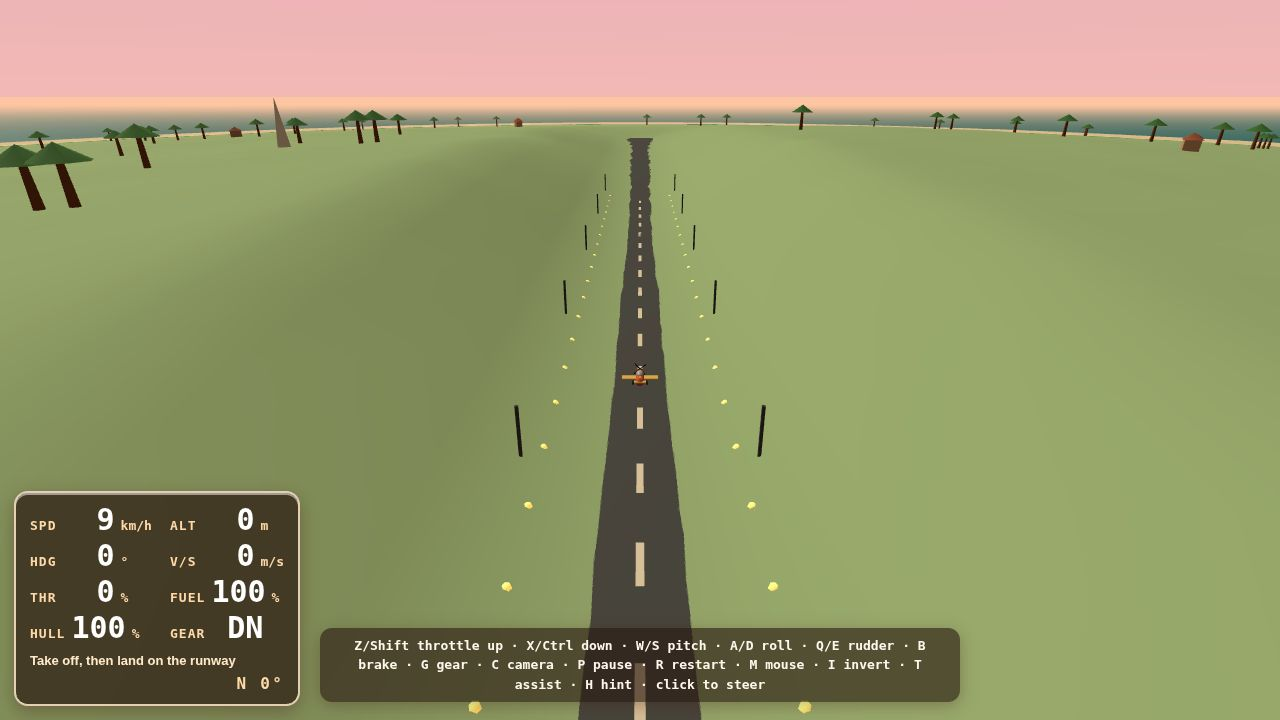
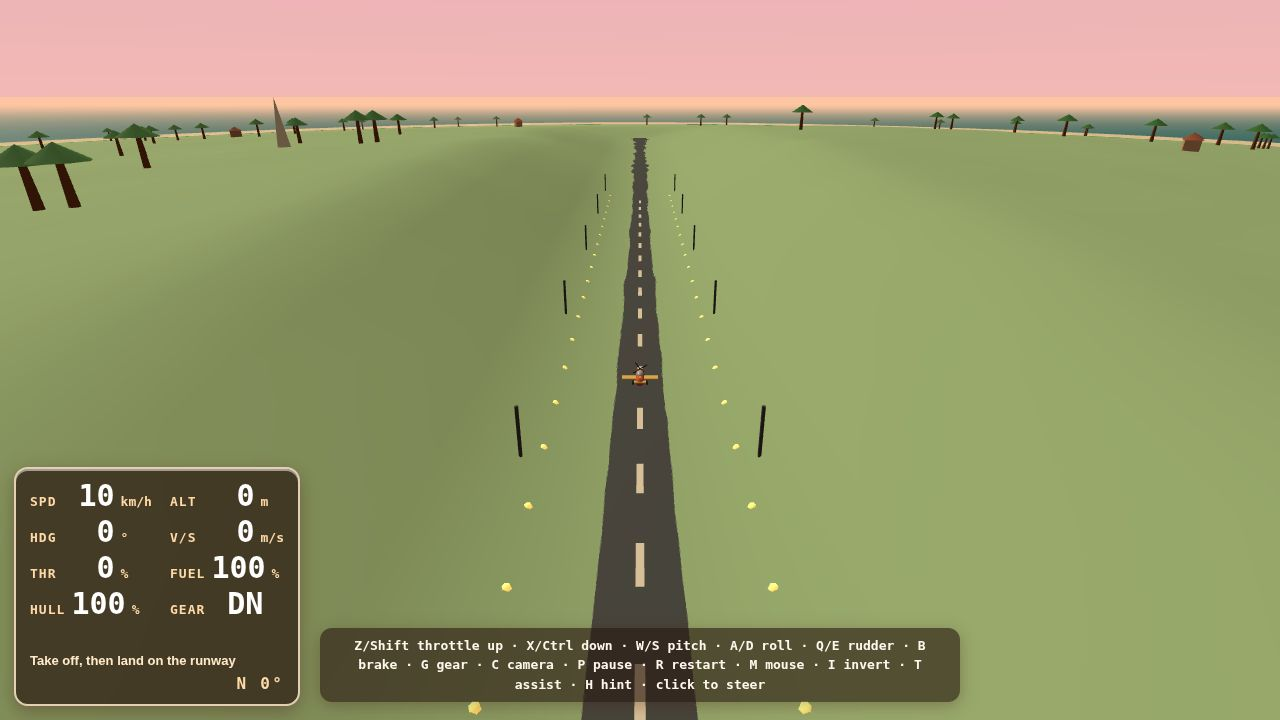
Flight limits: pitch clamp 50deg, steep-climb speed bleed, 700-900m engine ceiling, CEILING warning + tests

diff --git a/game/src/flight-model.js b/game/src/flight-model.js
@@ -26,6 +26,7 @@ export function createFlightState(overrides = {}) {
     onGround: true,
     gearDown: true,
     throttle: 0,
+    ceilingFactor: 1,
     fuel: 100,
     hull: 100,
     ...overrides,
@@ -73,14 +74,21 @@ export function stepFlight(state, controls, dt, groundHeightAt) {
   const wantThrottle = clamp(state.throttle + (c.throttleDelta ?? 0) * g.throttleRate * step, 0, 1);
   state.throttle = wantThrottle;
 
+  // Engine thrust fades out near the ceiling. The HUD reads ceilingFactor
+  // to show the CEILING warning.
+  state.ceilingFactor = clamp((g.ceilingEnd - state.y) / (g.ceilingEnd - g.ceilingStart), 0, 1);
+  const engineThrottle = state.throttle * state.ceilingFactor;
+
   // Target speed and long. acceleration.
-  const vTarget = g.baseSpeed + g.spanSpeed * state.throttle;
+  const vTarget = g.baseSpeed + g.spanSpeed * engineThrottle;
   let dv = (vTarget - state.speed) * g.speedDrag;
 
   if (!state.onGround) {
-    dv -= g.gravity * Math.sin(state.pitch) * g.pitchFactor;
+    const sinPitch = Math.sin(state.pitch);
+    const steep = Math.max(0, sinPitch - Math.sin(g.steepPitch));
+    dv -= g.gravity * (sinPitch * g.pitchFactor + steep * g.climbBleed);
     const auth = authority(state.speed);
-    state.pitch = clamp(state.pitch + (c.pitch ?? 0) * g.pitchRate * auth * step, -1.2, 1.2);
+    state.pitch = clamp(state.pitch + (c.pitch ?? 0) * g.pitchRate * auth * step, -g.maxPitch, g.maxPitch);
     state.roll = clamp(state.roll + (c.roll ?? 0) * g.rollRate * auth * step, -1.5, 1.5);
     state.heading += (c.yaw ?? 0) * 0.5 * auth * step;
     state.heading += (g.gravity * Math.tan(state.roll)) / Math.max(state.speed, g.turnMinSpeed) * step;

diff --git a/game/src/hud/hud.js b/game/src/hud/hud.js
@@ -2,6 +2,8 @@
 // Digits are kept large (>= 28 px) so they read well shrunk to 400 px wide.
 // All text is English per the language policy.
 
+import { FLIGHT, FUEL, DAMAGE } from "../config.js";
+
 export function createHud(doc) {
   const el = doc.createElement("div");
   el.id = "hud";
@@ -34,6 +36,11 @@ export function createHud(doc) {
   const fuel = t("hud-fuel", "FUEL", "%");
   const hull = t("hud-hull", "HULL", "%");
   const gear = t("hud-gear", "GEAR", "");
+  const warning = doc.createElement("div");
+  warning.id = "hud-warning";
+  warning.className = "hud-warning";
+  warning.textContent = "";
+  el.appendChild(warning);
   const objective = doc.createElement("div");
   objective.id = "hud-objective";
   objective.className = "hud-objective";
@@ -62,6 +69,12 @@ export function createHud(doc) {
       document.getElementById("hud-fuel").textContent = Math.round(state.fuel).toString();
       document.getElementById("hud-hull").textContent = Math.round(state.hull).toString();
       document.getElementById("hud-gear").textContent = state.gearDown ? "DN" : "UP";
+      const warnings = [];
+      if (state.y >= FLIGHT.ceilingStart) warnings.push("CEILING");
+      if (state.fuel < FUEL.warningLevel) warnings.push("LOW FUEL");
+      if (state.hull < DAMAGE.warningLevel) warnings.push("DAMAGE");
+      if (!state.onGround && state.speed < FLIGHT.stallSpeed) warnings.push("STALL");
+      warning.textContent = warnings.join("  ");
       this.renderCompass(hdg);
     },
     renderCompass(hdg) {

diff --git a/game/src/config.js b/game/src/config.js
@@ -32,6 +32,15 @@ export const FLIGHT = {
   // Ground rolling drag (per second) and brake deceleration.
   groundFriction: 0.15,
   brakeFriction: 8,
+  // Pitch is limited to +/-50 degrees; the plane cannot point straight up.
+  maxPitch: 50 * Math.PI / 180,
+  // Extra gravity bleed ramps in above this pitch (20 degrees).
+  steepPitch: 20 * Math.PI / 180,
+  // Strength of the extra gravity term on steep climbs.
+  climbBleed: 7,
+  // Engine thrust fades from full at ceilingStart to zero at ceilingEnd (metres).
+  ceilingStart: 700,
+  ceilingEnd: 900,
   // Landing gear transition time (s).
   gearTime: 1.2,
 };

diff --git a/game/styles.css b/game/styles.css
@@ -101,3 +101,12 @@ html, body {
 #controls-hint.show {
   opacity: 1;
 }
+.hud-warning {
+  grid-column: 1 / -1;
+  min-height: 18px;
+  font: 700 16px/1.2 ui-monospace, monospace;
+  letter-spacing: 0.1em;
+  color: #ff6b52;
+  text-align: center;
+  text-shadow: 0 1px 2px rgba(0, 0, 0, 0.6);
+}
